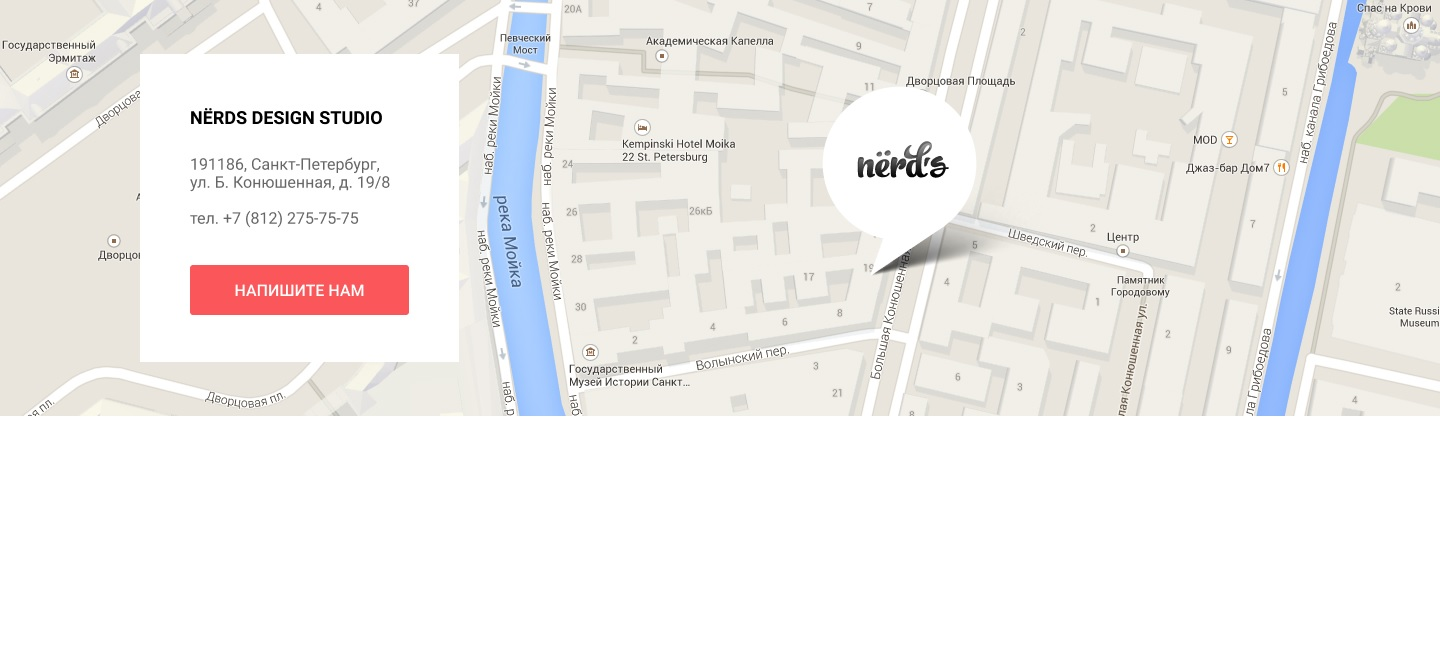
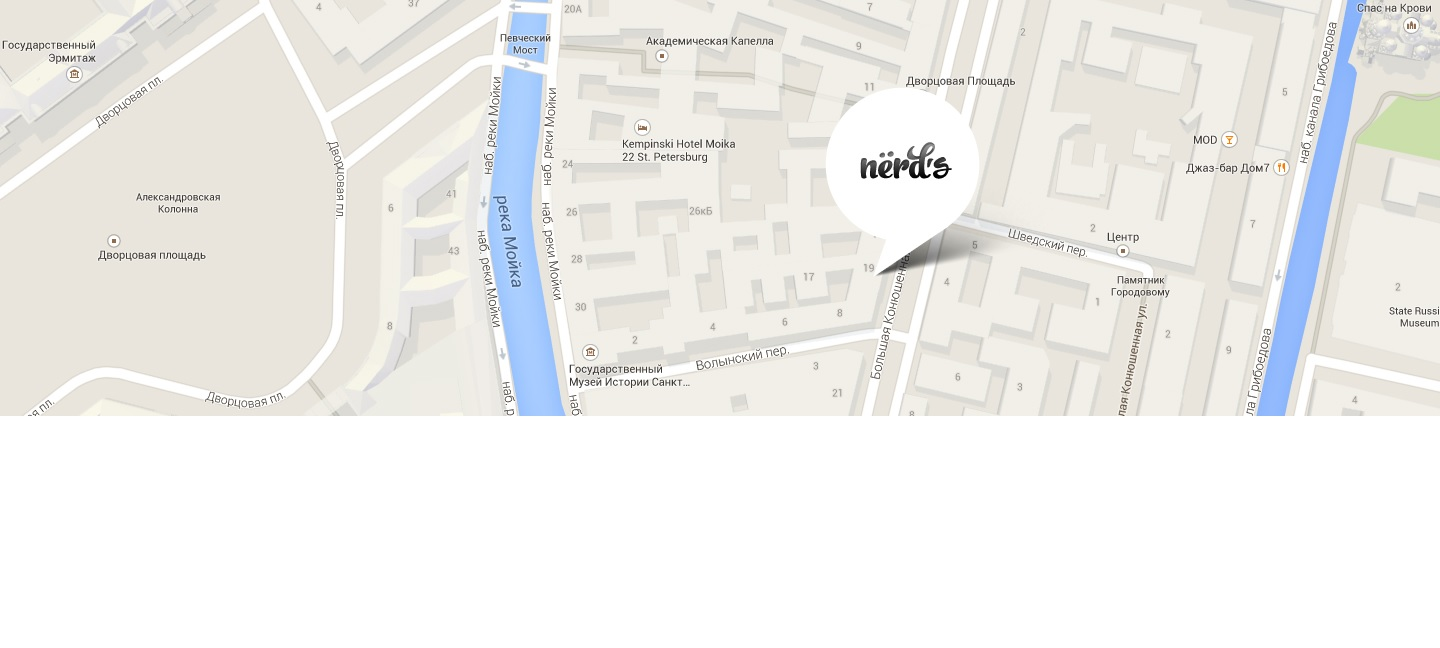
Задание 6. Графика

Changed region(s): [[0.0938, 0.0617, 0.3438, 0.5556], [0.5938, 0.216, 0.6562, 0.2778], [0.5938, 0.3704, 0.6562, 0.4321]]

diff --git a/catalog.html b/catalog.html
@@ -11,7 +11,7 @@
     <header class="main-header">
       <nav class="main-navigation">
       <a class="main-header-logo">
-        <img src="https://via.placeholder.com/160x65" alt="Логотип веб-студии Нёрдс">
+        <img src="img/nerds-logo.svg" width="160" height="65" alt="Логотип веб-студии Нёрдс">
       </a>
         <ul class="site-navigation">
           <li><a href="">Студия</a></li>
@@ -41,12 +41,12 @@
           </div>	
   			</div>
   			<ul class="catalog-list">
-  				<li><a href=""><img src="https://via.placeholder.com/359x578" alt="Sedona"></a></li>
-  				<li><a href=""><img src="https://via.placeholder.com/359x578" alt="Pink"></a></li>
-  				<li><a href=""><img src="https://via.placeholder.com/359x578" alt="Borodinsky"></a></li>
-  				<li><a href=""><img src="https://via.placeholder.com/359x578" alt="Mishka"></a></li>
-  				<li><a href=""><img src="https://via.placeholder.com/359x578" alt="A+"></a></li>
-  				<li><a href=""><img src="https://via.placeholder.com/359x578" alt="Кваст"></a></li>
+  				<li><a href=""><img src="img/sedona.png" width="358" height="578" alt="Sedona"></a></li>
+  				<li><a href=""><img src="img/pink.png" width="358" height="578" alt="Pink"></a></li>
+  				<li><a href=""><img src="img/borodinsky.png" width="358" height="578" alt="Borodinsky"></a></li>
+  				<li><a href=""><img src="img/mishka.png" width="358" height="578" alt="Mishka"></a></li>
+  				<li><a href=""><img src="img/aplus.png" width="358" height="578" alt="A+"></a></li>
+  				<li><a href=""><img src="img/kvast.png" width="358" height="578" alt="Кваст"></a></li>
   			</ul>
         <div class="pagination">
   				<a class="pagination-link active">1</a>
@@ -58,7 +58,7 @@
   	</main>
   <footer class="page-footer">
       <div class="footer-map">
-      <img class="map" src="https://via.placeholder.com/1440x416" alt="191186, Санкт-Петербург, ул. Б.Конюшенная, д. 19/8">
+      <img class="map" src="img/map.jpg" width="1440" height="416" alt="191186, Санкт-Петербург, ул. Б.Конюшенная, д. 19/8">
       </div>
       <section class="contacts">
         <h2 class="contacts-title">NЁRDS DESIGN STUDIO</h2>

diff --git a/index.html b/index.html
@@ -10,9 +10,9 @@
   <body class="page-body">
   	<header class="main-header">
   		<nav class="main-navigation">
-  		<a class="main-header-logo">
-  			<img src="https://via.placeholder.com/160x65" alt="Логотип веб-студии Нёрдс">
-  		</a>
+	  		<a class="main-header-logo">
+	  			<img src="img/nerds-logo.svg" width="160" height="65" alt="Логотип веб-студии Nerds"></a>
+	  		</a>
   			<ul class="site-navigation">
   				<li><a href="">Студия</a></li>
   				<li><a href="">Клиенты</a></li>
@@ -95,16 +95,16 @@
   		</section>
   		<section class="clients">
   			<ul class="clients-list">
-  				<li><a href=""><img src="https://via.placeholder.com/199x67" alt="Html Academy"></a></li>
-  				<li><a href=""><img src="https://via.placeholder.com/199x67" alt="Borodinsky"></a></li>
-  				<li><a href=""><img src="https://via.placeholder.com/199x67" alt="Pink"></a></li>
-  				<li><a href=""><img src="https://via.placeholder.com/199x67" alt="Mishka"></a></li>
+  				<li><a href=""><img src="img/htmlacademy-logo.svg" width="199" height="68" alt="Html Academy"></a></li>
+  				<li><a href=""><img src="img/borodinsky-logo.svg" width="209" height="90" alt="Borodinsky"></a></li>
+  				<li><a href=""><img src="img/pink-logo.svg" width="185" height="52" alt="Pink"></a></li>
+  				<li><a href=""><img src="img/mishka-logo.svg" width="173" height="84" alt="Mishka"></a></li>
   			</ul>
   		</section>
   	</main>
   	<footer class="page-footer">
   		<div class="footer-map">
-  		<img class="map" src="https://via.placeholder.com/1440x416" alt="191186, Санкт-Петербург, ул. Б.Конюшенная, д. 19/8">
+  		<img class="map" src="img/map.jpg" width="1440" height="416" alt="191186, Санкт-Петербург, ул. Б.Конюшенная, д. 19/8">
   		</div>
   		<section class="contacts">
   			<h2 class="contacts-title">NЁRDS DESIGN STUDIO</h2>
